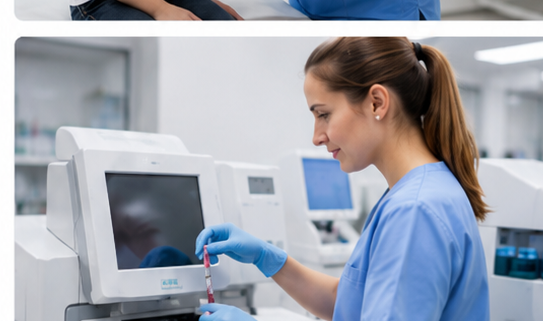
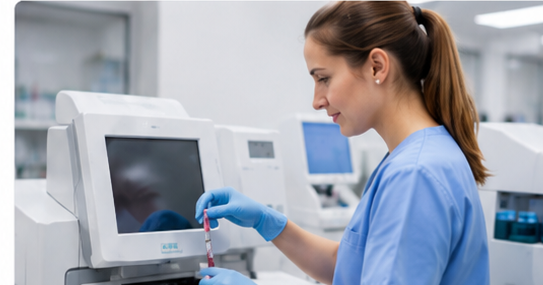
Fix cropping artifacts in Urgent Care supporting images

diff --git a/src/sections/services/UrgentCareContent/UrgentCareContent.tsx b/src/sections/services/UrgentCareContent/UrgentCareContent.tsx
@@ -63,13 +63,13 @@ export function UrgentCareContent() {
         <img
           src={pediatricImage}
           alt={t("servicePage.urgentCare.pairAlt.pediatric")}
-          className="block aspect-[4/3] w-full rounded-[14px] object-cover"
+          className="block aspect-[4/3] w-full rounded-[14px] object-cover object-center"
           loading="lazy"
         />
         <img
           src={labImage}
           alt={t("servicePage.urgentCare.pairAlt.lab")}
-          className="block aspect-[4/3] w-full rounded-[14px] object-cover"
+          className="block aspect-[4/3] w-full rounded-[14px] object-cover object-[55%_center]"
           loading="lazy"
         />
       </div>
